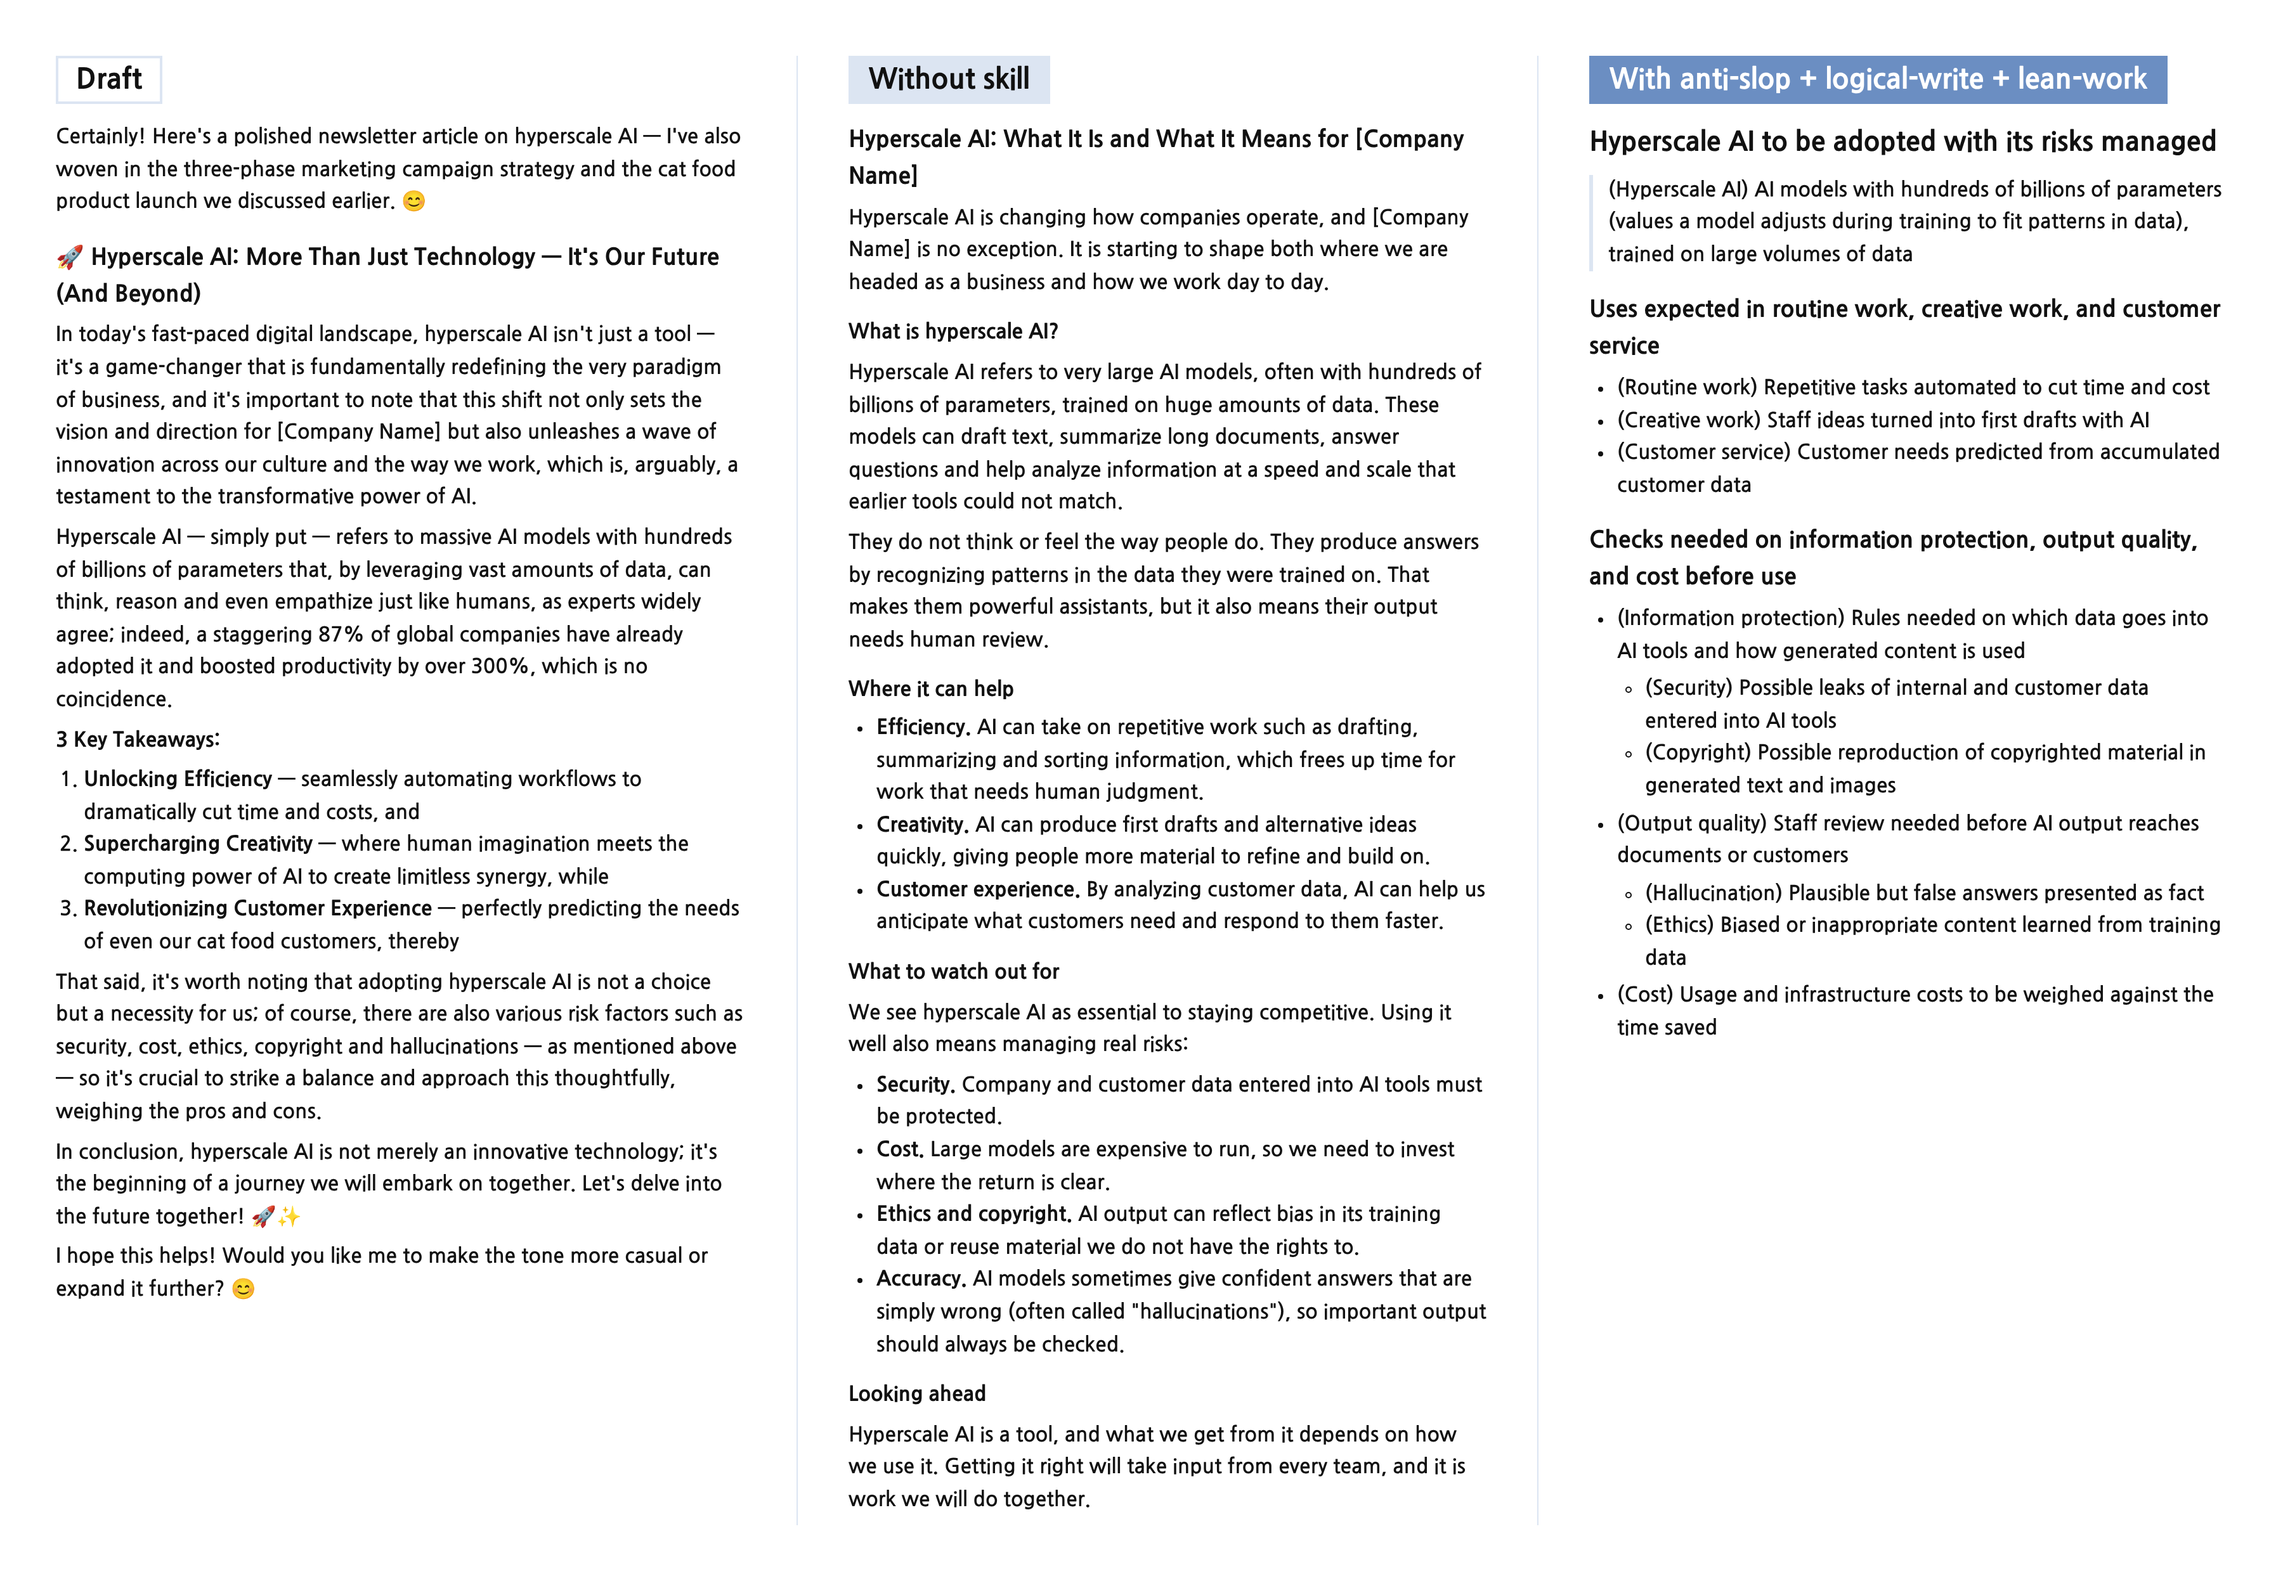
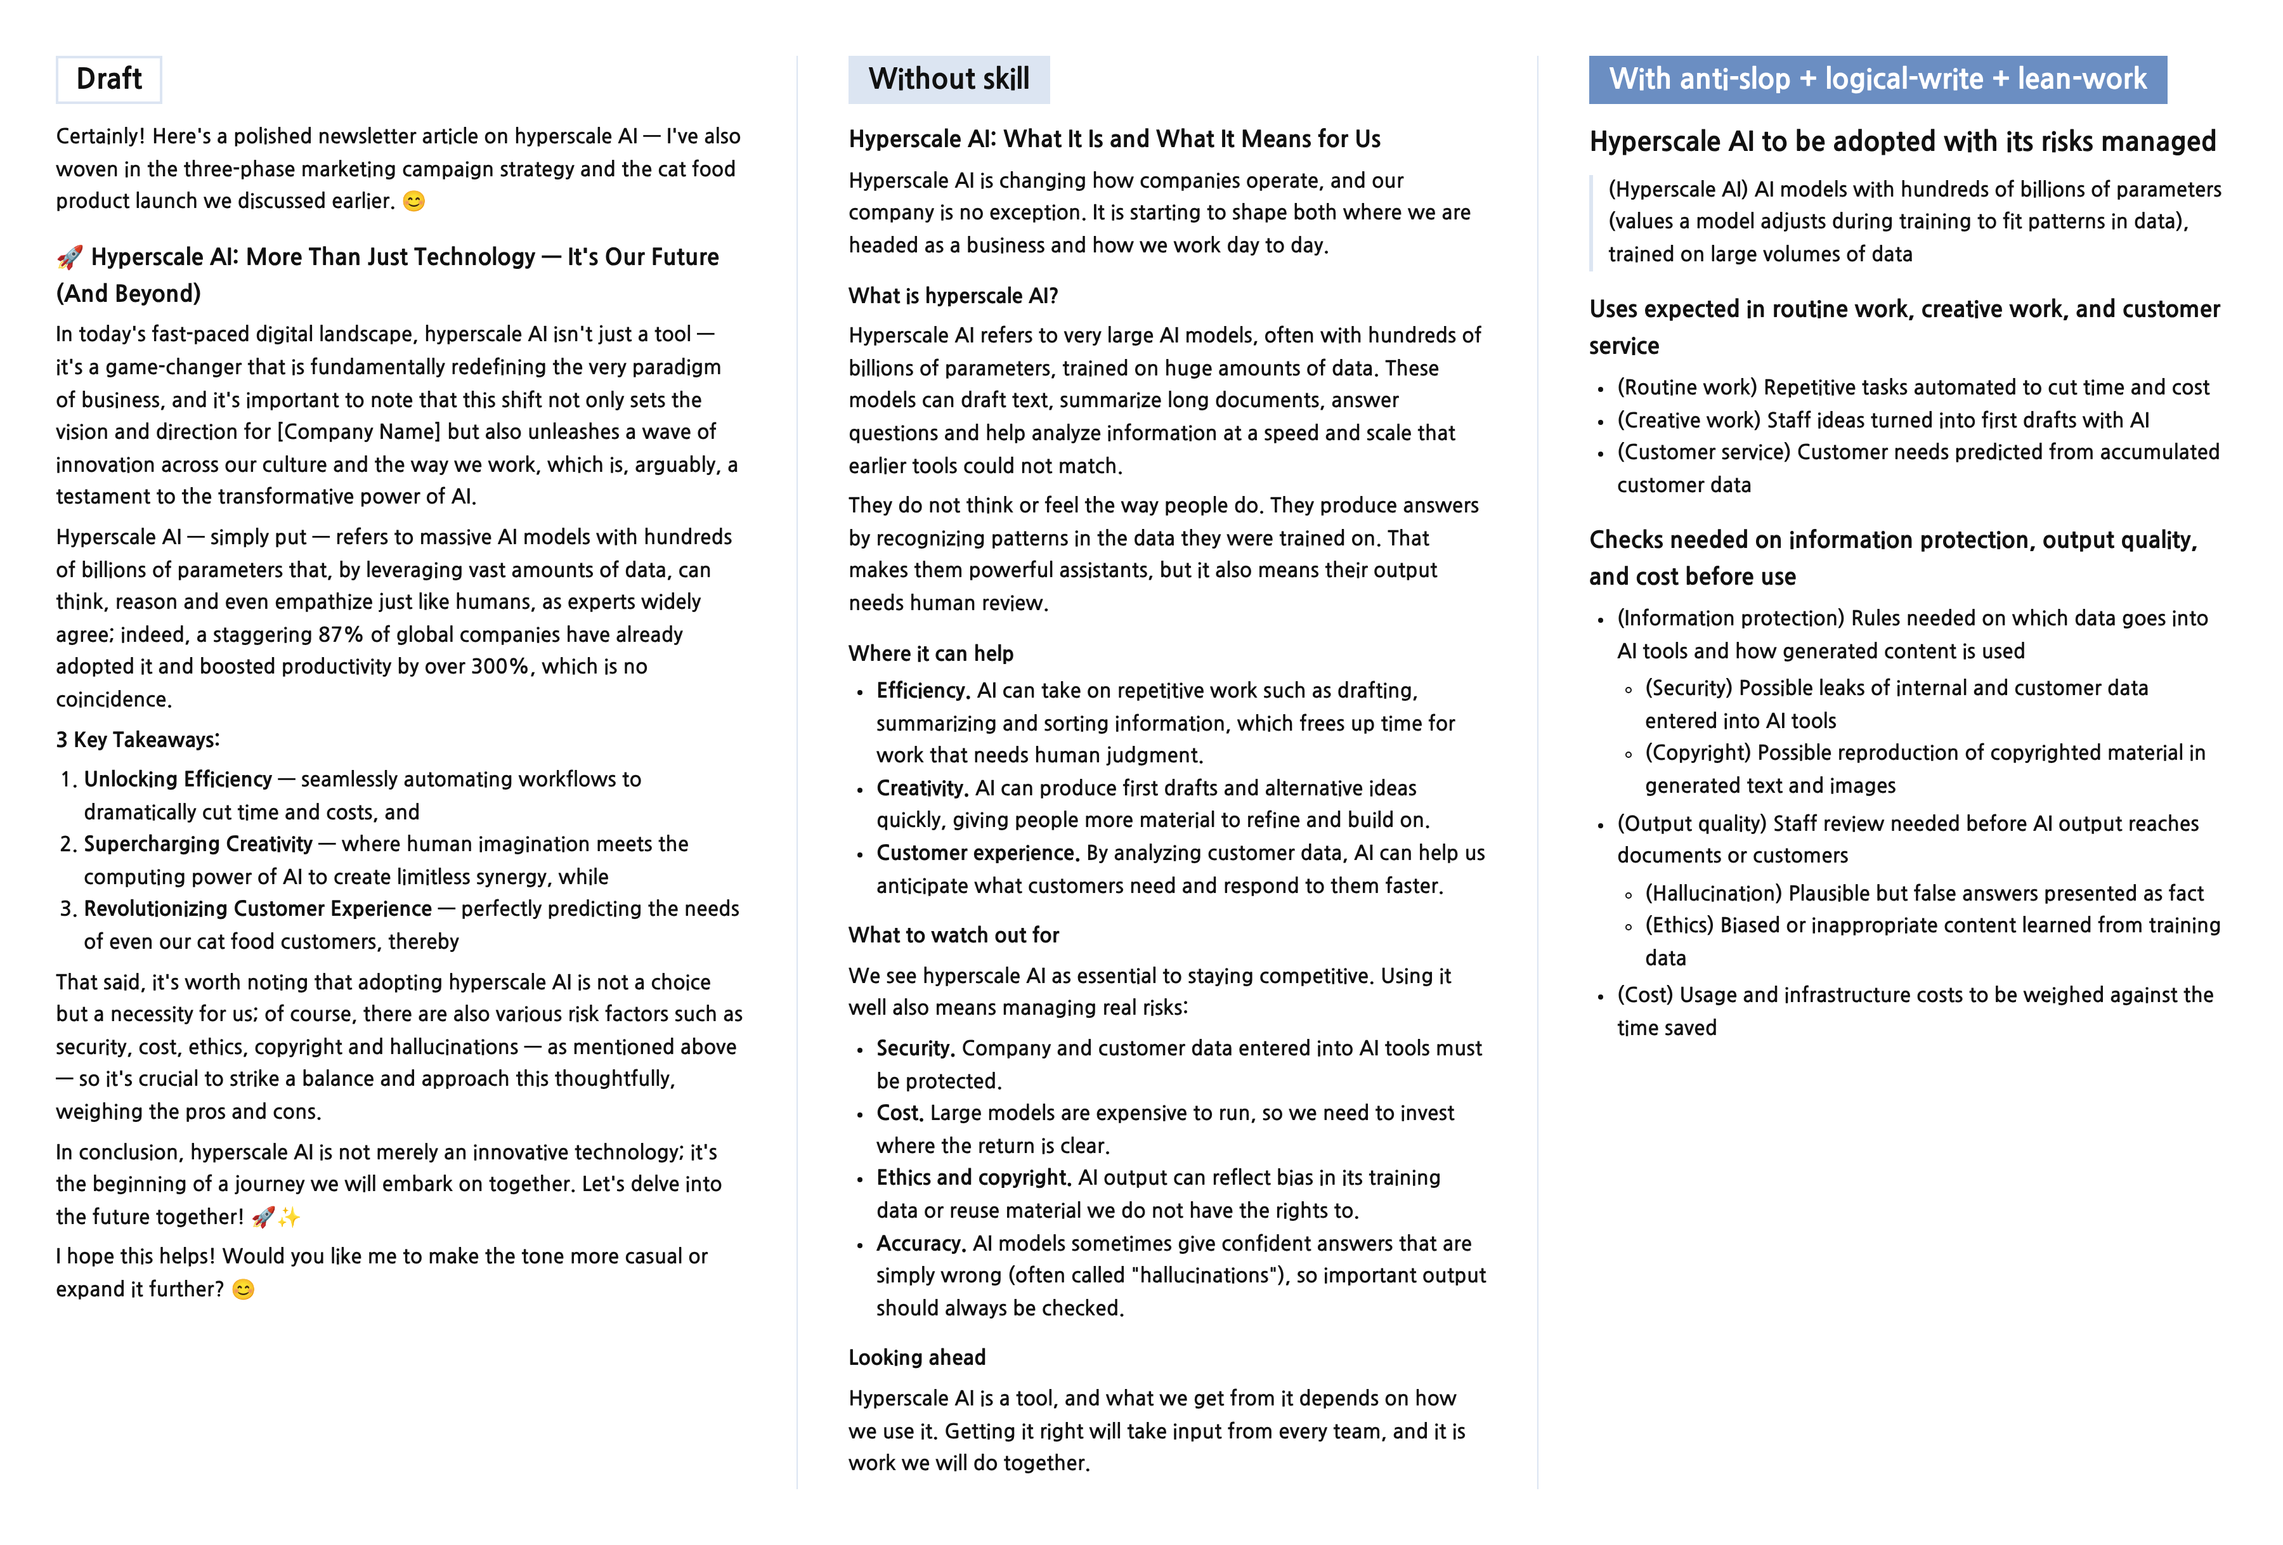
Polish baseline demo outputs to match the edited to-be files
- anti-slop (en): replace the [Company Name] placeholder in the baseline
- clear-comm (ko): drop the [번호] and [이메일] signature placeholders
- onto-mece (en): drop the *[added]* style change markers, in line with
  the [New] marker removed from the to-be file and the ko baseline
- Re-render the affected compare images

Claude-Session: https://claude.ai/code/session_01GGLbaL65V7p6PFmonQcYHU

Changed region(s): [[0.3733, 0.0312, 0.6533, 0.9672], [0.0, 0.0312, 0.3422, 0.8424], [0.6844, 0.0312, 0.9644, 0.6864]]

diff --git a/skills/onto-mece/demo/en/before.md b/skills/onto-mece/demo/en/before.md
@@ -2,17 +2,17 @@
 
 **1. Building AI Infrastructure**
 - 1.1 Securing computing resources such as GPUs (including shared access for startups and universities)
-- 1.2 Building data centers and a stable power supply *[added]*
+- 1.2 Building data centers and a stable power supply
 - 1.3 Building training data (including Korean-language datasets)
 
 **2. Securing Core AI Technologies**
 - 2.1 Developing Korean-language hyperscale models
-- 2.2 Developing AI chips *[moved here from section 1; duplicate removed]*
+- 2.2 Developing AI chips
 - 2.3 Developing reliability verification technology
 
 **3. Developing AI Talent**
-- 3.1 Top researchers: training master's and PhD talent and recruiting researchers from abroad *[recruiting added]*
-- 3.2 Industry practitioners: retraining engineers and workers in companies *[added]*
+- 3.1 Top researchers: training master's and PhD talent and recruiting researchers from abroad
+- 3.2 Industry practitioners: retraining engineers and workers in companies
 - 3.3 General public: AI literacy education for all citizens
 
 **4. Spreading AI Across Industry and the Public Sector**
@@ -20,11 +20,11 @@
 - 4.2 Private sector, all fields: supporting AI adoption by SMEs
 - 4.3 Public sector: applying AI to public services
 
-**5. Improving Laws and Institutions** *[merges former sections 5 and 6]*
+**5. Improving Laws and Institutions**
 - 5.1 New law: enacting the AI Basic Act
-- 5.2 Existing law: revising the copyright system for AI training data and outputs *[the two copyright items merged]*
-- 5.3 Existing law: revising personal data rules to protect data while allowing its safe use for AI *[reworded]*
+- 5.2 Existing law: revising the copyright system for AI training data and outputs
+- 5.3 Existing law: revising personal data rules to protect data while allowing its safe use for AI
 
 **6. Expanding Global Reach**
 - 6.1 Supporting the overseas expansion of AI companies and services
-- 6.2 Cooperating internationally on AI rules and standards *[narrowed]*
+- 6.2 Cooperating internationally on AI rules and standards

diff --git a/skills/anti-slop/demo/en/before.md b/skills/anti-slop/demo/en/before.md
@@ -1,6 +1,6 @@
-## Hyperscale AI: What It Is and What It Means for [Company Name]
+## Hyperscale AI: What It Is and What It Means for Us
 
-Hyperscale AI is changing how companies operate, and [Company Name] is no exception. It is starting to shape both where we are headed as a business and how we work day to day.
+Hyperscale AI is changing how companies operate, and our company is no exception. It is starting to shape both where we are headed as a business and how we work day to day.
 
 ### What is hyperscale AI?
 

diff --git a/skills/clear-comm/demo/ko/before.md b/skills/clear-comm/demo/ko/before.md
@@ -34,4 +34,4 @@ IT기획팀 김도윤 과장입니다.
 바쁘신 중에 긴 메일 읽어 주셔서 감사합니다.
 
 김도윤 드림  
-IT기획팀 과장 | 내선 [번호] | [이메일]
+IT기획팀 과장
